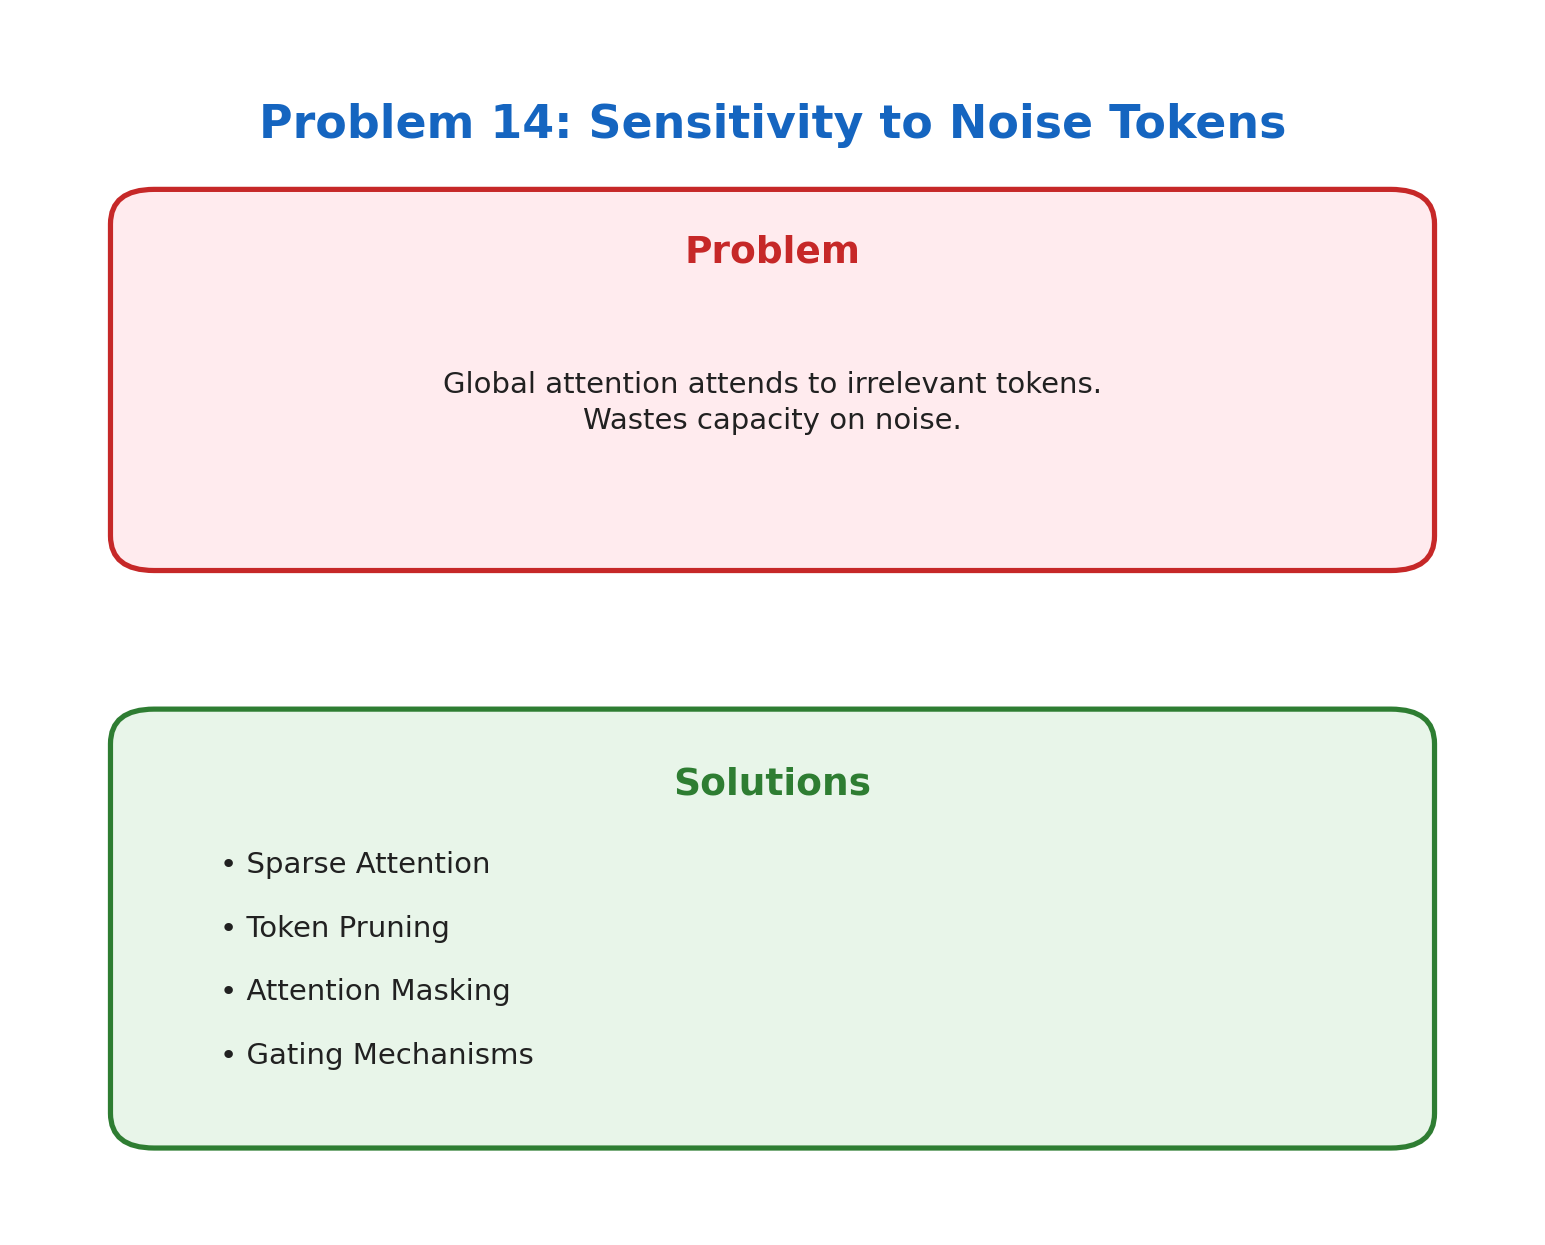
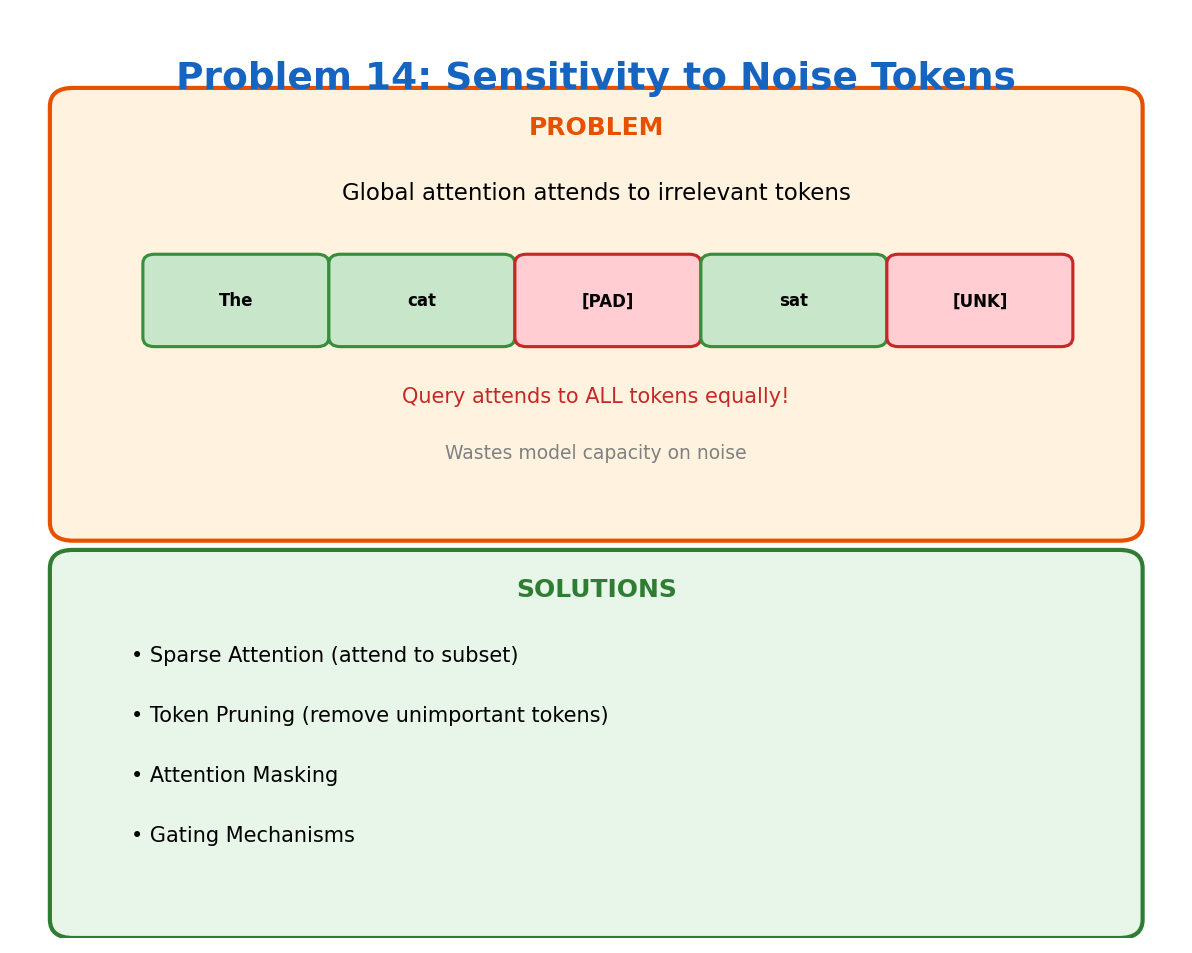
Update Problem 14: Noise Sensitivity - human-readable README

diff --git a/14_noise_sensitivity/README.md b/14_noise_sensitivity/README.md
@@ -1,23 +1,76 @@
 # Problem 14: Sensitivity to Noise Tokens
 
-## Problem
+[← Back to Main](../README.md) | [← Previous](../13_model_size/README.md) | [Next →](../15_interpretability/README.md)
 
-Global attention attends to irrelevant tokens. Wastes capacity on noise.
+---
 
-The global attention mechanism allows every token to attend to every other token, including irrelevant or noisy tokens. This can distract the model and waste computational resources.
+![Problem 14](./problem.png)
 
-## Solutions
+## What's the Problem?
 
-| Solution | Description |
-|----------|-------------|
-| **Sparse Attention** | Limit attention to relevant token subsets |
-| **Token Pruning** | Remove less important tokens during inference |
-| **Attention Masking** | Learn to mask out irrelevant attention patterns |
-| **Gating Mechanisms** | Learn to gate attention based on relevance |
+Your input has 1000 tokens. 900 are relevant content. 100 are noise — padding tokens, formatting artifacts, irrelevant context. 
 
-## References
+A transformer doesn't know the difference. It computes attention from every token to every other token, including the noise. This wastes computation and can hurt performance as the model gets distracted by irrelevant information.
 
-- [Sparse Transformers](https://arxiv.org/abs/1904.10509) - Generating Long Sequences with Sparse Transformers
-- [DynamicViT](https://arxiv.org/abs/2106.02034) - Efficient Vision Transformers with Dynamic Token Sparsification
-- [Token Merging](https://arxiv.org/abs/2210.09461) - Your ViT is Secretly a Hybrid
+Common noise sources:
+- Padding tokens (to make batches uniform)
+- HTML/markdown artifacts
+- Repeated delimiters
+- Irrelevant retrieved context (in RAG)
 
+## Why Does This Happen?
+
+Global attention means every query attends to every key:
+```
+attention = softmax(Q @ K.T) @ V
+```
+
+The model has to *learn* to ignore noise. But:
+1. This takes up model capacity
+2. It's not always successful
+3. Noisy tokens still consume compute
+
+## A Real Example
+
+Input: "The cat [PAD] [PAD] [PAD] sat on [UNK] the mat [PAD] [PAD]"
+
+The model computes attention to all 11 tokens, but only 6 carry meaning. 45% of attention computation is wasted on noise.
+
+## How Do We Fix It?
+
+| Approach | What It Does |
+|----------|--------------|
+| **Attention Masking** | Explicitly mask out padding/noise tokens |
+| **Sparse Attention** | Only attend to a subset of tokens |
+| **Token Pruning** | Remove unimportant tokens mid-computation |
+| **Gating Mechanisms** | Learn to weight down irrelevant tokens |
+| **Better Tokenization** | Reduce noise at the source |
+
+## Attention Masks
+
+The standard solution is attention masking:
+```python
+attention_scores = Q @ K.T
+attention_scores[mask == 0] = -inf  # These become 0 after softmax
+attention = softmax(attention_scores) @ V
+```
+
+Masked tokens get zero attention weight. But you're still computing scores for them — just throwing them away.
+
+## Dynamic Token Pruning
+
+More advanced approaches actually remove tokens:
+1. After layer N, score each token's importance
+2. Drop the bottom 50%
+3. Continue with half the tokens
+
+This gives quadratic speedups (half tokens = quarter attention compute).
+
+## Learn More
+
+- [Sparse Transformers](https://arxiv.org/abs/1904.10509)
+- [Token Merging (ToMe)](https://arxiv.org/abs/2210.09461)
+
+---
+
+[← Back to Main](../README.md) | [← Previous](../13_model_size/README.md) | [Next →](../15_interpretability/README.md)
